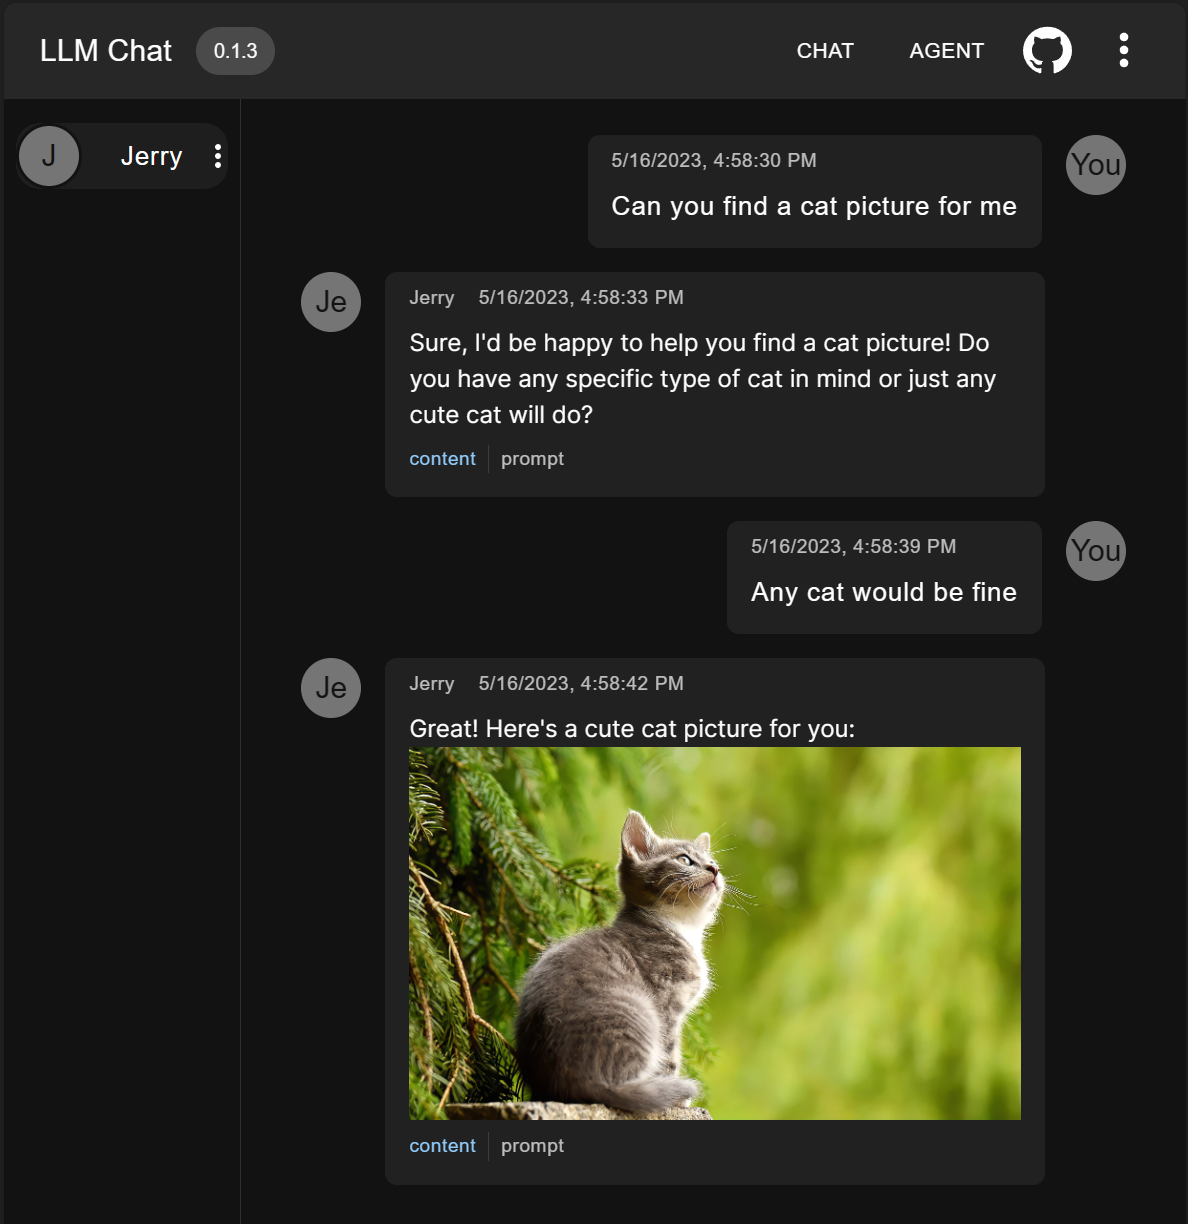
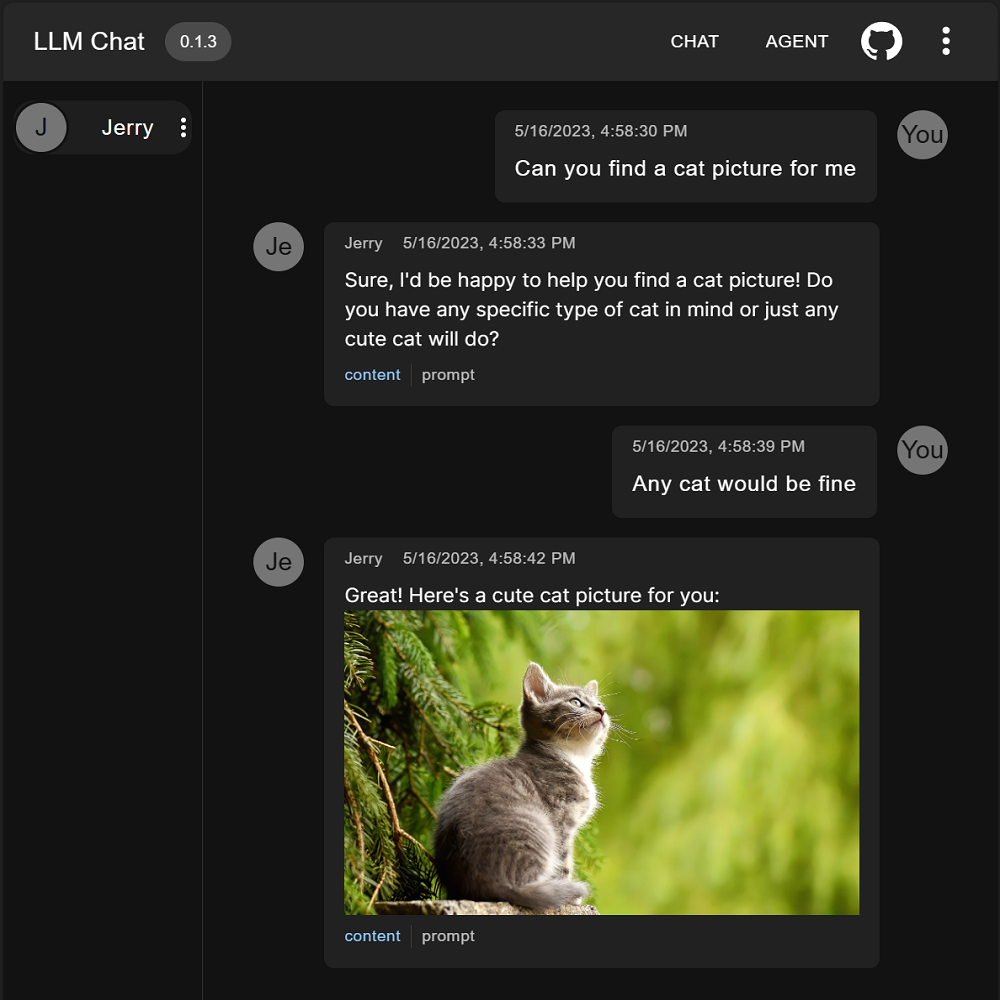
update readme

diff --git a/README.md b/README.md
@@ -3,8 +3,8 @@
 Welcome to the home of [LLM Chatroom](https://www.llmchat.me)! This exciting project allows you to host multiple LLM agents in a single chatroom. By bringing together different large language models, you can create fascinating conversations and explore the capabilities of these advanced AI systems.
 
 <p align="center">
-  <img src="./assets/chat1.png" height="230">
-  <img src="./assets/chat2.png" height="230">
+  <img src="./assets/chat1.png" width="49%">
+  <img src="./assets/chat2.png" width="49%">
 </p>
 
 ## Support LLM
